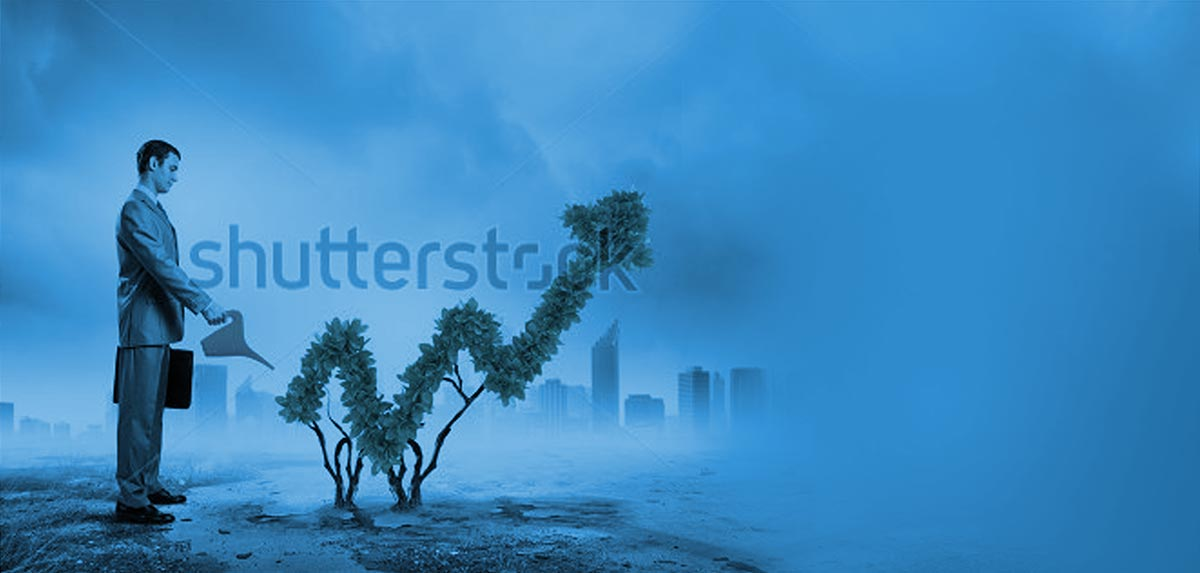
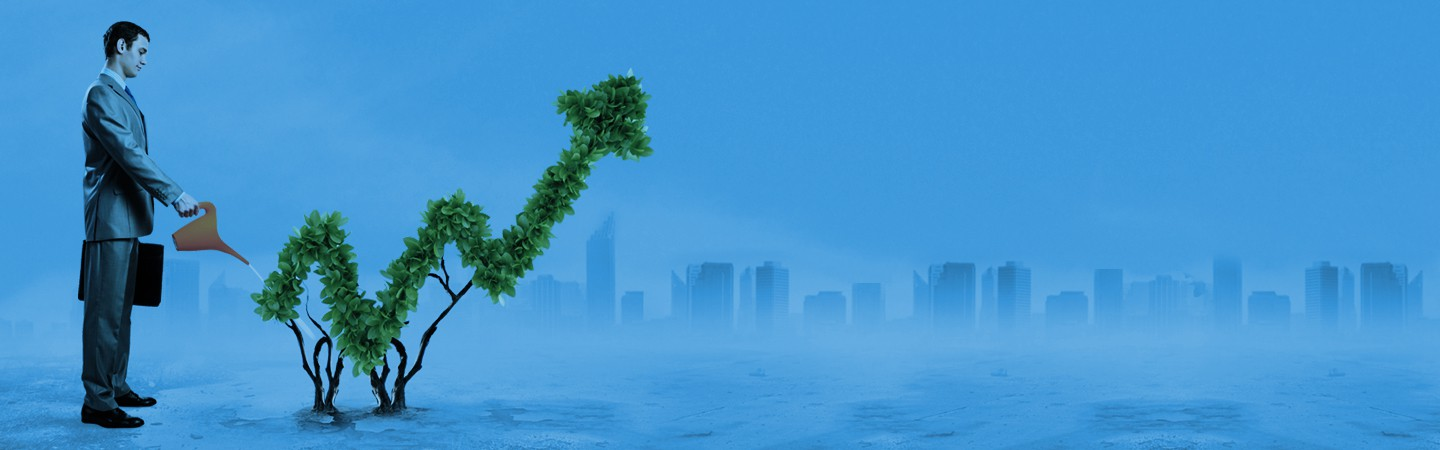
Обновил изображения каверов.

diff --git a/app/assets/stylesheets/application/pages.css.scss b/app/assets/stylesheets/application/pages.css.scss
@@ -34,10 +34,6 @@
   &.cover {
     height: 450px;
     font-size: 18px;
-    -webkit-background-size: cover;
-    -moz-background-size: cover;
-    -o-background-size: cover;
-    background-size: cover !important;
     overflow: hidden;
     /* Главная страница */
     &.index { 
@@ -68,11 +64,14 @@
       background: image-url("application/pages/covers/structural-products.jpg") no-repeat center top;
       filter: progid:DXImageTransform.Microsoft.AlphaImageLoader(src=image-path("application/pages/covers/structural-products.jpg"), sizingMethod='scale');
       -ms-filter: progid:DXImageTransform.Microsoft.AlphaImageLoader(src=image-path("application/pages/cover/structural-products.jpg"), sizingMethod='scale');
+      .title {
+        font-size: 38px;
+      }
     }
     &.personal-broker {
-      background: image-url("application/pages/covers/personal-broker.jpeg") no-repeat center top;
-      filter: progid:DXImageTransform.Microsoft.AlphaImageLoader(src=image-path("application/pages/covers/personal-broker.png"), sizingMethod='scale');
-      -ms-filter: progid:DXImageTransform.Microsoft.AlphaImageLoader(src=image-path("application/pages/covers/personal-broker.png"), sizingMethod='scale');
+      background: image-url("application/pages/covers/personal-broker.jpg") no-repeat center top;
+      filter: progid:DXImageTransform.Microsoft.AlphaImageLoader(src=image-path("application/pages/covers/personal-broker.jpg"), sizingMethod='scale');
+      -ms-filter: progid:DXImageTransform.Microsoft.AlphaImageLoader(src=image-path("application/pages/covers/personal-broker.jpg"), sizingMethod='scale');
     }
 
     .title {
@@ -88,7 +87,7 @@
     }
 
     .content {
-      margin: 3.33333333333333em 0;
+      margin: 100px 0 0;
       width: 490px;
       text-align: center;
       color: #fff;

diff --git a/app/assets/stylesheets/application/layout.css.scss b/app/assets/stylesheets/application/layout.css.scss
@@ -225,7 +225,7 @@ header.header {
 .footer {
   background: #2b3038;
   margin: 0;
-  padding: 36px 0 18px;
+  padding: 9px 0 18px;
   .address {
     float: left;
     height: 50px;
@@ -257,15 +257,12 @@ header.header {
         display: inline-block;
         margin: 0 5px;
         .link {
-          text-transform: uppercase;
           color: white;
-          border: 1px solid transparent;
+          /*border: 1px solid white;*/
           padding: 5px;
           border-radius: 4px;
-          text-decoration: none;
           @include transition(all, 0.2s, ease-in-out);
           &:hover {
-            border: 1px solid #00bbe4;
             color: #00bbe4;
           }
         }
@@ -275,21 +272,19 @@ header.header {
   .copyright {
     float: left;
     color: white;
-    margin: 80px 0 0;
+    margin: 36px 0 0;
     a {
       color: white;
-      text-decoration: none;
       margin: 0 10px;
       @include transition(all, 0.2s, ease-in-out);
       &:hover {
-        color: $dark-blue;
-        text-decoration: underline;
+        color: #00bbe4;
       }
     }
   }
   .social {
     float: right;
-    margin: 70px 0 0;
+    margin: 26px 0 0;
     .item {
       display: inline-block;
       font-size: 32px;
@@ -298,7 +293,7 @@ header.header {
       text-decoration: none;
       @include transition(color, 0.2s, ease-in-out);
       &:hover {
-        color: $gray;
+        color: #00bbe4;
       }
     } 
   }
